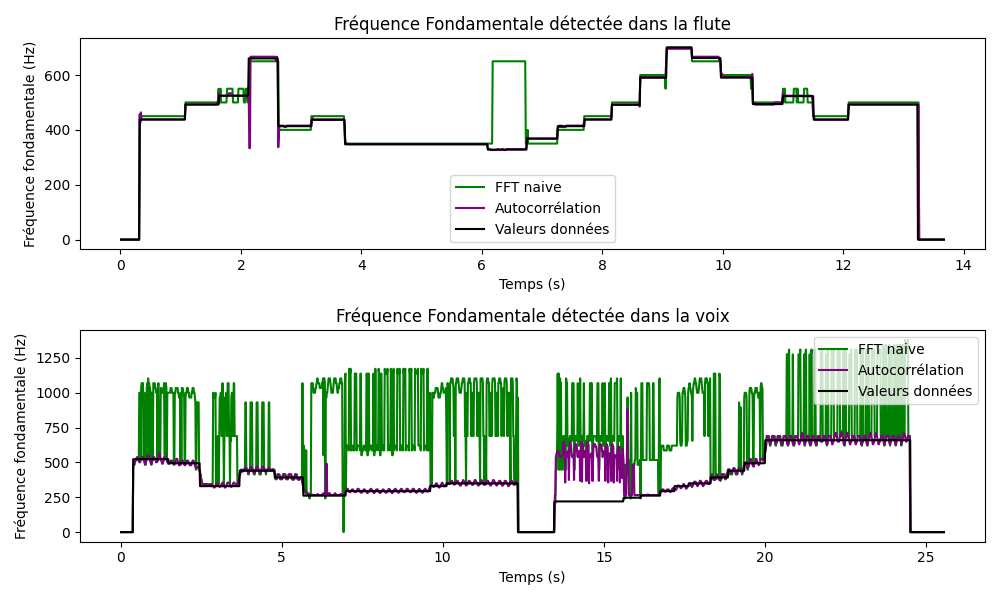
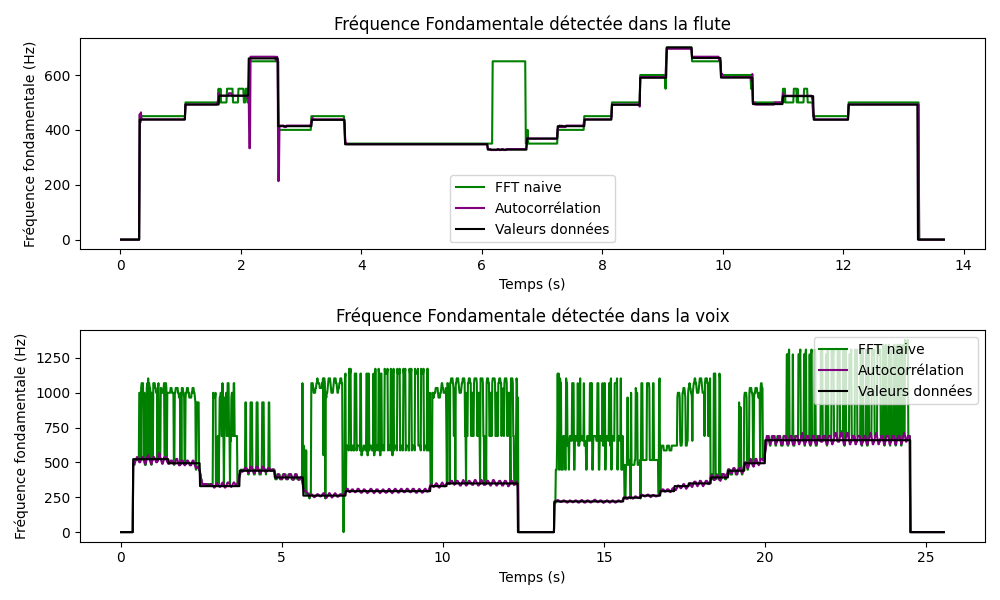
fixed Fmin to C3 now autocorrelation works amazing!

Changed region(s): [[0.558, 0.72, 0.651, 0.84], [0.31, 0.78, 0.341, 0.84]]

diff --git a/fondamentale.py b/fondamentale.py
@@ -77,7 +77,7 @@ T = 1 / samplerate
 window_size = 0.02 # Taille de la fenêtre en secondes
 hop_size = 0.01  # Décalage entre les fenêtres (en secondes)
 treshold = 0.003
-Fmin = librosa.note_to_hz('C4')
+Fmin = librosa.note_to_hz('C3')
 Fmax = librosa.note_to_hz('C6')
 
 #conversion en nbre d'échantillons
@@ -170,3 +170,63 @@ print('erreur moyenne L2 de la méthode par autocorrelation:'+str(np.linalg.norm
 print("On constate que la méthode d'autocorrélation est plus précise.")
 print('En effet, la méthode naive a du mal a détecter les vibratos légers.')
 print('Globalement les deux méthodes sont moins efficaces pour détecter la fondamentale')
+
+
+
+
+
+
+
+Tmin = int(samplerate / Fmax)
+Tmax = int(samplerate / Fmin)
+# Autocorrélogramme
+
+# Initialiser le tableau pour stocker les autocorrélations
+autocorr_matrix = []
+
+# Calculer l'autocorrélation sur chaque fenêtre
+for start in range(0, len(x) - window_size, hop_size):
+    end = start + window_size
+    window = x[start:end]
+    windowed_signal = window * np.hamming(len(window))  # Appliquer une fenêtre de Hamming
+
+    # Calculer l'autocorrélation
+    autocorr = np.correlate(windowed_signal, windowed_signal, mode='full')
+    autocorr = autocorr[len(autocorr)//2:]
+    autocorr = autocorr / np.max(autocorr)
+
+
+    # Ajouter au tableau
+    autocorr_matrix.append(autocorr)
+
+# Convertir la matrice en numpy array
+autocorr_matrix = np.array(autocorr_matrix)
+# Calcul des lags correspondants aux fréquences fondamentales détectées
+lags_detected = samplerate / np.array(f0_autocorr) * T
+lags_detected[f0_autocorr == 0] = 0  # Remplacer les valeurs invalides par 0
+
+
+# Créer l'échelle de temps et de lag pour le spectrogramme
+time_axis = np.arange(len(autocorr_matrix)) * hop_size / samplerate
+lag_axis = np.arange(len(autocorr_matrix[0])) * T
+
+# Afficher le spectrogramme avec les lags superposés
+plt.figure(figsize=(12, 8))
+plt.imshow(
+    autocorr_matrix.T,  # bas en haut
+    extent=[time_axis[0], time_axis[-1], lag_axis[-1], lag_axis[0]],
+    aspect='auto',
+    cmap='viridis',
+    origin='upper'
+)
+plt.colorbar(label='Amplitude normalisée')
+plt.xlabel('Temps (s)')
+plt.ylabel('Lag (s)')
+plt.title('Spectrogramme basé sur l\'autocorrélation (voix)')
+
+# Superposer les lags détectés (éliminer les zéros pour éviter les artefacts)
+plt.scatter(time_axis, lags_detected, color='red', s=10, label='Lags détectés')
+
+plt.legend()
+plt.tight_layout()
+plt.show()
